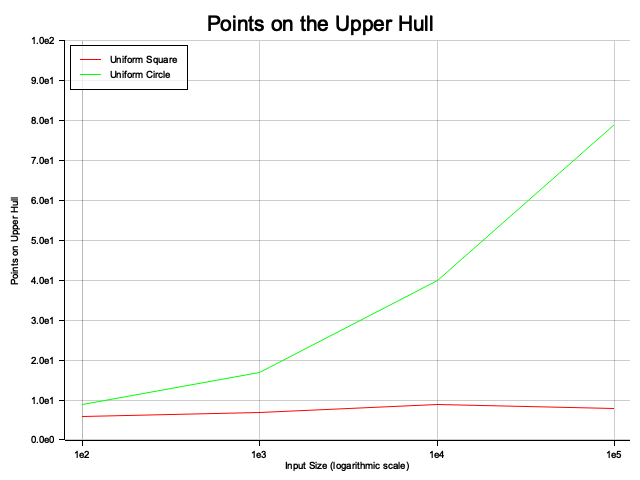
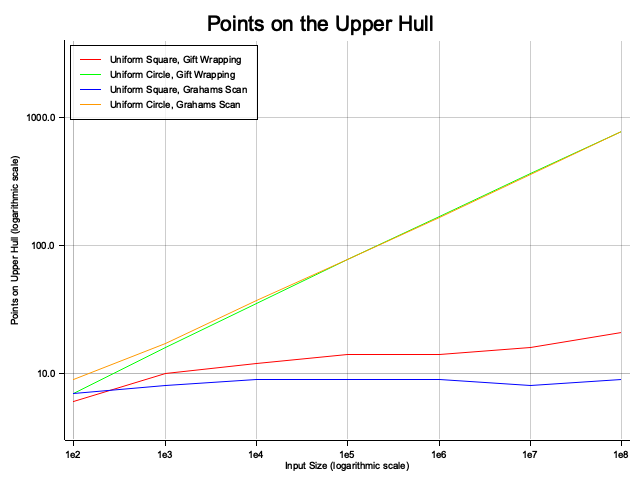
add upper hull investigation plots

diff --git a/project_2/src/main.rs b/project_2/src/main.rs
@@ -2,8 +2,8 @@ use crate::gift_wrapping::gift_wrapping_upper_hull;
 use crate::grahams_scan::grahams_scan;
 use crate::grahams_scan_parallel::grahams_scan_parallel;
 use crate::input_generation::{Curve, InverseCurve, Line, UniformCircle, UniformSquare};
-use crate::plotting::{plot, plot_upper_hull_points};
-use crate::types::{Experiment, InputFunction, Plot, Point};
+use crate::plotting::{plot, plot_upper_hull, plot_upper_hull_points};
+use crate::types::{ConvexHullAlgorithm, Experiment, InputFunction, Plot, Point};
 use std::time::Instant;
 
 mod gift_wrapping;
@@ -15,13 +15,17 @@ mod types;
 mod utils;
 
 fn main() {
-    //let args: Vec<String> = std::env::args().collect();
+    let input_sizes: Vec<i64> = (2..=8).map(|exp| 10i64.pow(exp)).collect();
 
-    // get running times for all wanted plots
+    //different_inputs_runtime(input_sizes.clone());
+    upper_hull_size(input_sizes.clone());
+    //parallel_runtime(input_sizes);
+    
+    //upper_hull()
+}
 
+fn different_inputs_runtime(input_sizes: Vec<i64>) {
     // grahams scan, gift wrapping, parallel grahams scan (8 cores) on all inputs
-    // annotate with number of points on upper hull
-    let input_sizes: Vec<i64> = (2..=5).map(|exp| 10i64.pow(exp)).collect();
     let input_types: Vec<(InputFunction, String)> = vec![
         (UniformSquare::get_input, "Uniform Square".to_string()),
         (UniformCircle::get_input, "Uniform Circle".to_string()),
@@ -232,56 +236,9 @@ fn main() {
     plot(curve_plot);
     plot(upwards_curve_plot);
     plot(line_plot);
+}
 
-    // upper hull points given the input size
-    let mut upper_hull_points = Plot {
-        title: "Points on the Upper Hull".to_string(),
-        path: "project_2/plots/upper_hull_points.png".to_string(),
-        experiments: vec![],
-        input_sizes: input_sizes.clone(),
-        algorithm: gift_wrapping_upper_hull,
-        args: (Option::from(true), None),
-        y_range: 0f64..100f64,
-    };
-
-    let upper_hull_inputs: Vec<(InputFunction, String)> = vec![
-        (UniformSquare::get_input, "Uniform Square".to_string()),
-        (UniformCircle::get_input, "Uniform Circle".to_string()),
-    ];
-
-    for (function, name) in upper_hull_inputs {
-        println!("{}, {}", name, upper_hull_points.title);
-
-        let mut experiment = Experiment {
-            name: name.clone(),
-            run_times: vec![],
-        };
-
-        for input_size in &input_sizes {
-            let upper_hull_algorithm = upper_hull_points.algorithm;
-
-            // calculate the runtime 4 additional times to get the more consistent average
-            let total_points: usize = (0..5)
-                .map(|_| {
-                    let input = function(*input_size);
-                    upper_hull_algorithm(input, upper_hull_points.args.0, upper_hull_points.args.1)
-                        .points
-                        .len()
-                })
-                .sum();
-
-            let avg_points = total_points / 5;
-            println!("{}: {}", input_size, avg_points);
-
-            experiment.run_times.push(avg_points as f64);
-        }
-
-        upper_hull_points.experiments.push(experiment);
-    }
-
-    // plot upper hull points by input size
-    plot_upper_hull_points(upper_hull_points);
-
+fn parallel_runtime(input_sizes: Vec<i64>) {
     // grahams scan vs parallel grahams scan on one input with different cores
     let threads = vec![1, 2, 4, 8, 16];
     let input_function = UniformSquare::get_input;
@@ -338,4 +295,77 @@ fn main() {
 
     // plot parallel comparison
     plot(grahams_parallel_different_threads);
+}
+
+fn upper_hull_size(input_sizes: Vec<i64>) {
+    // upper hull points given the input size
+    let mut upper_hull_points = Plot {
+        title: "Points on the Upper Hull".to_string(),
+        path: "project_2/plots/upper_hull_points.png".to_string(),
+        experiments: vec![],
+        input_sizes: input_sizes.clone(),
+        algorithm: grahams_scan,
+        args: (Option::from(true), None),
+        y_range: 3f64..4000f64,
+    };
+
+    let runs: Vec<(InputFunction, ConvexHullAlgorithm, String)> = vec![
+        (
+            UniformSquare::get_input,
+            gift_wrapping_upper_hull,
+            "Uniform Square, Gift Wrapping".to_string(),
+        ),
+        (
+            UniformCircle::get_input,
+            gift_wrapping_upper_hull,
+            "Uniform Circle, Gift Wrapping".to_string(),
+        ),
+        (
+            UniformSquare::get_input,
+            grahams_scan,
+            "Uniform Square, Grahams Scan".to_string(),
+        ),
+        (
+            UniformCircle::get_input,
+            grahams_scan,
+            "Uniform Circle, Grahams Scan".to_string(),
+        ),
+    ];
+
+    for (input_function, algorithm, name) in runs {
+        println!("{}, {}", name, upper_hull_points.title);
+
+        let mut experiment = Experiment {
+            name: name.clone(),
+            run_times: vec![],
+        };
+
+        for input_size in &input_sizes {
+            // calculate the runtime 4 additional times to get the more consistent average
+            let total_points: usize = (0..5)
+                .map(|_| {
+                    let input = input_function(*input_size);
+                    algorithm(input, upper_hull_points.args.0, upper_hull_points.args.1)
+                        .points
+                        .len()
+                })
+                .sum();
+
+            let avg_points = total_points / 5;
+            println!("{}: {}", input_size, avg_points);
+
+            experiment.run_times.push(avg_points as f64);
+        }
+
+        upper_hull_points.experiments.push(experiment);
+    }
+
+    // plot upper hull points by input size
+    plot_upper_hull_points(upper_hull_points);
+}
+
+fn upper_hull() {
+    let input = UniformSquare::get_input(10000);
+    let result = grahams_scan(input, Option::from(true), None);
+    plot_upper_hull(result);
 }

diff --git a/project_2/src/plotting.rs b/project_2/src/plotting.rs
@@ -1,4 +1,5 @@
-use crate::types::Plot;
+use crate::types::{Plot, Point, PointVector};
+use plotters::coord::types::{RangedCoordi32, RangedCoordi64};
 use plotters::prelude::*;
 use plotters::style::full_palette::ORANGE;
 
@@ -73,14 +74,13 @@ pub fn plot_upper_hull_points(plot: Plot) {
         .caption(plot.title, ("sans-serif", 26).into_font())
         .x_label_area_size(30)
         .y_label_area_size(55)
-        .build_cartesian_2d((x_first..x_last).log_scale(), plot.y_range)
+        .build_cartesian_2d((x_first..x_last).log_scale(), plot.y_range.log_scale())
         .unwrap();
 
     chart
         .configure_mesh()
         .max_light_lines(0)
-        .y_label_formatter(&|y| format!("{:.1e}", y))
-        .y_desc("Points on Upper Hull")
+        .y_desc("Points on Upper Hull (logarithmic scale)")
         .x_label_formatter(&|x| format!("{:.0e}", x))
         .x_desc("Input Size (logarithmic scale)")
         .draw()
@@ -111,6 +111,35 @@ pub fn plot_upper_hull_points(plot: Plot) {
         .border_style(BLACK)
         .background_style(WHITE.mix(0.75))
         .draw()
+        .unwrap();
+
+    root.present().unwrap();
+}
+
+pub fn plot_upper_hull(points: PointVector) {
+    let root = BitMapBackend::new("project_2/plots/upper_hull_us_gs.png", (480, 480)).into_drawing_area();
+    let _ = root.fill(&WHITE);
+    let root = root.margin(10, 10, 10, 10);
+
+    let mut chart = ChartBuilder::on(&root)
+        .caption("Uniform Square - Grahams Scan", ("sans-serif", 26).into_font())
+        .x_label_area_size(35)
+        .y_label_area_size(35)
+        .build_cartesian_2d(-25i64..525i64, -25i64..525i64)
+        .unwrap();
+
+    chart
+        .configure_mesh()
+        .y_desc("Y")
+        .x_desc("X")
+        .draw()
+        .unwrap();
+
+    chart
+        .draw_series(
+            LineSeries::new(points.points.iter().map(|Point { x, y }| (*x, *y)), &BLACK)
+                .point_size(2),
+        )
         .unwrap();
 
     root.present().unwrap();
